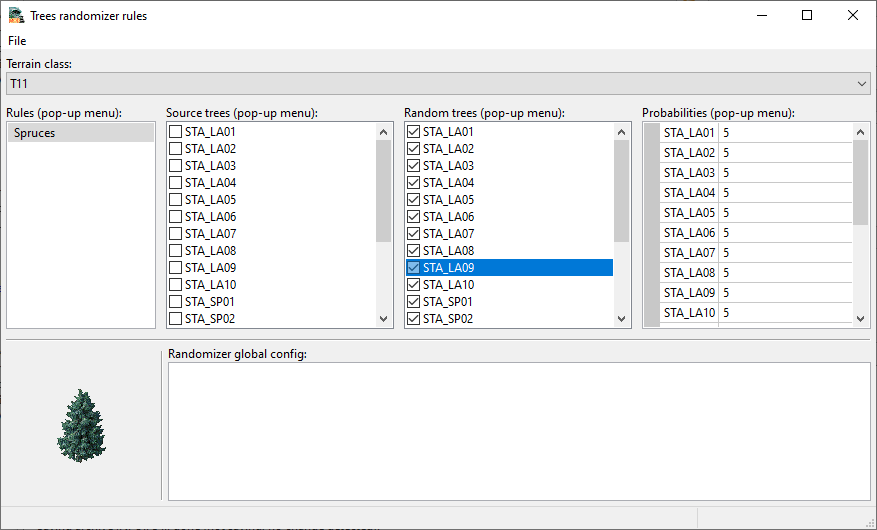
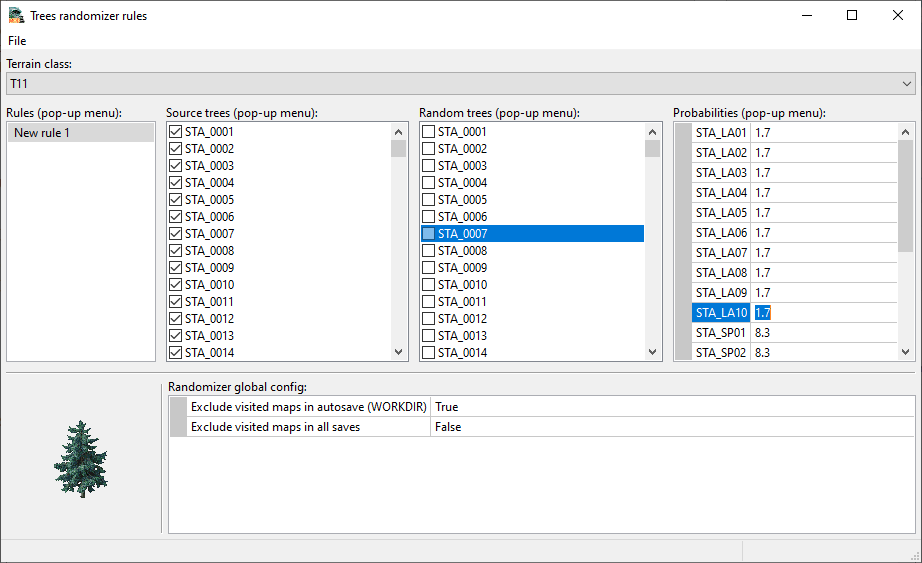
update help

Changed region(s): [[0.0, 0.0, 1.0, 0.966], [0.0308, 0.9962, 0.431, 1.0], [0.0616, 0.7245, 0.1231, 0.8755]]

diff --git a/help/help_cze.html b/help/help_cze.html
@@ -288,7 +288,7 @@ MissionData {
 </td></tr></table><br>
 
 <p align="justify">
-&nbsp;&nbsp; Lokální pravidla jsou rozdělena podle třídy jednotek na lehké, těžké a letecké v menu <b>Source untis class</b>. Pro každou třídu je třeba vybrat jednotky, které budou randomizovány v menu <b>Source (applicable) units</b>. Dále je třeba vybrat typy jednotek, na které se bude randomizovat v menu <b>Target units</b>. Zde lze zapnout filtr podle posledního uložené pozice ve SAVE/WORKDIR (tato možnost nemusí vždy správně fungovat, takže ji lze vypnout). Následně pro každou z jednotek lze nastavit pravděpodobnost náhodného výběru v menu <b>Probabilities</b>.
+&nbsp;&nbsp; Lokální pravidla jsou rozdělena podle třídy jednotek na lehké, těžké a letecké v menu <b>Source units class</b>. Pro každou třídu je třeba vybrat jednotky, které budou randomizovány v menu <b>Source (applicable) units</b>. Dále je třeba vybrat typy jednotek, na které se bude randomizovat v menu <b>Target units</b>. Zde lze zapnout filtr podle posledního uložené pozice ve SAVE/WORKDIR (tato možnost nemusí vždy správně fungovat, takže ji lze vypnout). Následně pro každou z jednotek lze nastavit pravděpodobnost náhodného výběru v menu <b>Probabilities</b>.
 &nbsp;&nbsp; Pro všechny třídy jednotek společně je třeba nastavit pravidla randomizace v menu <b>Randomizer global config</b>. Zde se především nastavuje kde se mají pravidla aplikovat. Vytvořené pravidla lze uložit a načítat přes menu <b>File-&gt;Save preset</b> a <b>File-&gt;Load preset</b>.   
 </p>
 
@@ -296,18 +296,14 @@ MissionData {
 <br>
 <a name="treerandomizer"></a>
 <div class="n2">9 - Randomizér stromů</div><p align="justify">
-&nbsp;&nbsp; Vzhled hry je poněkud okoukaný, takže jsem doplnil randomizér stromů. Jeho nastavení lze vyvolat v menu <b>Mod-&gt;Config Trees Randomizer</b>. Zde lze vytvořit pravidla obdobně jako pro randomizaci jednotek. Tj. lze vytvořit sadu pravidel, kde je vždy vybrán seznam zdrojových stromů a následně seznam náhodných stromů, kterými mají být zdrojové nahrazeny. Lze také zadat pravděpodobnost výskytu. Vytvořené pravidla lze uložit a na načítat. Po vytvoření pravidel je třeba randomizaci zapnout na hlavním panelu <b>Randomize trees</b>.  
+&nbsp;&nbsp; Vzhled hry je poněkud okoukaný, takže jsem doplnil randomizér stromů. Jeho nastavení lze vyvolat v menu <b>Mod-&gt;Config Trees Randomizer</b>. Zde lze vytvořit pravidla obdobně jako pro randomizaci jednotek. Tj. lze vytvořit sadu pravidel, kde je vždy vybrán seznam zdrojových stromů a následně seznam náhodných stromů, kterými mají být zdrojové nahrazeny. Lze také zadat pravděpodobnost výskytu. Vytvořené pravidla lze uložit a na načítat. Po vytvoření pravidel je třeba randomizaci zapnout na hlavním panelu <b>Randomize trees</b>.
+V panelu je také možné nastavit, které mapy mají být vyloučeny z randomizace. Toto nastavení je nutné, protože pokud se změní jakékoliv data v DTA souboru již navštívené mapy, tak pak nesedí DTA sprity na stavový soubor mapy "*.MAP" v uložených pozicích a zobrazí se náhodné sprity! Defaultně se vylučují mapy v autosave (WORKDIR), ale je možné zapnout vyloučení navštívených map ze všech uložených pozic (jistota).    
 </p>
 
 <table align="center"><tr><td>
 <img src="obr/trees_randomizer_1.png" alt="Trees randomizer rules" title="Trees randomizer rules">
 </td></tr></table><br>
 
-
-<p align="justify">
-&nbsp;&nbsp; Lokální pravidla jsou rozdělena podle třídy jednotek na lehké, těžké a letecké v menu <b>Source untis class</b>. Pro každou třídu je třeba vybrat jednotky, které budou randomizovány v menu <b>Source (applicable) units</b>. Dále je třeba vybrat typy jednotek, na které se bude randomizovat v menu <b>Target units</b>. Zde lze zapnout filtr podle posledního uložené pozice ve SAVE/WORKDIR (tato možnost nemusí vždy správně fungovat, takže ji lze vypnout). Následně pro každou z jednotek lze nastavit pravděpodobnost náhodného výběru v menu <b>Probabilities</b>.
-&nbsp;&nbsp; Pro všechny třídy jednotek společně je třeba nastavit pravidla randomizace v menu <b>Randomizer global config</b>. Zde se především nastavuje kde se mají pravidla aplikovat. Vytvořené pravidla lze uložit a načítat přes menu <b>File-&gt;Save preset</b> a <b>File-&gt;Load preset</b>.   
-</p>
 
 
 <br>
@@ -399,6 +395,14 @@ MissionData {
   </td>
   <td>
    Přidán nový patch pro anglický game engine od HonzaQ V1.20. Přidává pár flagů do JEDNOTKY.DEF, opravuje skupinový pohyb jednotek pro více SpecialUnits (konvoje) a opravuje špatné XP nepřátel při pokračování hry z auto savu.
+  </td> 
+ <tr>
+ <tr valign="top">
+  <td width="130">
+   <span class="d1">V1.50 - 24.10.2026</span>:
+  </td>
+  <td>
+   Opraven randomizér stromů, aby nerandomizoval již navštívené mapy.
   </td> 
  <tr>
 </table>

diff --git a/help/help_eng.html b/help/help_eng.html
@@ -307,7 +307,8 @@ MissionData {
 <br>
 <a name="treerandomizer"></a>
 <div class="n2">9 - Trees randomzier</div><p align="justify">
-&nbsp;&nbsp; Visual of Spellcross is bit boring, so I decided to include trees randomizing feature. It works similarly to the units randomizer. Setup is launched using menu <b>Mod-&gt;Config Trees Randomizer</b>. There it is possible to define rules such as replace list of source trees by random trees list with predefined probabilities. Created presets can be saved and loaded. The randomizer function can be activated in main panel by <b>Randomize trees</b> option.  
+&nbsp;&nbsp; Visual of Spellcross is bit boring, so I decided to include trees randomizing feature. It works similarly to the units randomizer. Setup is launched using menu <b>Mod-&gt;Config Trees Randomizer</b>. There it is possible to define rules such as replace list of source trees by random trees list with predefined probabilities. Created presets can be saved and loaded. The randomizer function can be activated in main panel by <b>Randomize trees</b> option. 
+Panel also contain global options. You can exclude already visited maps from randomization. This is needed because when map DTA file is modified, it will no longer be compatible with save game's visited map state files "*.MAP". This results in random sprites being displayed. So, by default launcher excludes visited maps from autosave (WORKDIR) but you can enable exclusion of visited maps from all save games (safe option).  
 </p>
 
 <table align="center"><tr><td>
@@ -404,6 +405,14 @@ MissionData {
   </td>
   <td>
    Added new game patch from HonzaQ V1.20. New flags in JEDNOTKY.DEF, fixed group movement for multiple SpecialUnits (convoys), fixed enemy XP levels when continue map from auto save.
+  </td>
+ <tr>
+  <tr valign="top">
+  <td width="200">
+   <span class="d1">V1.50 - October 24th, 2026</span>:
+  </td>
+  <td>
+   Fixed trees randomizer so it won't randomize already visited maps.
   </td>
  <tr>
 
